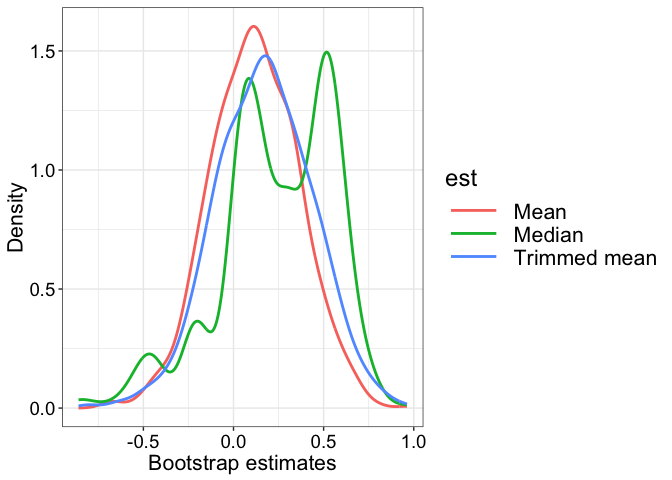
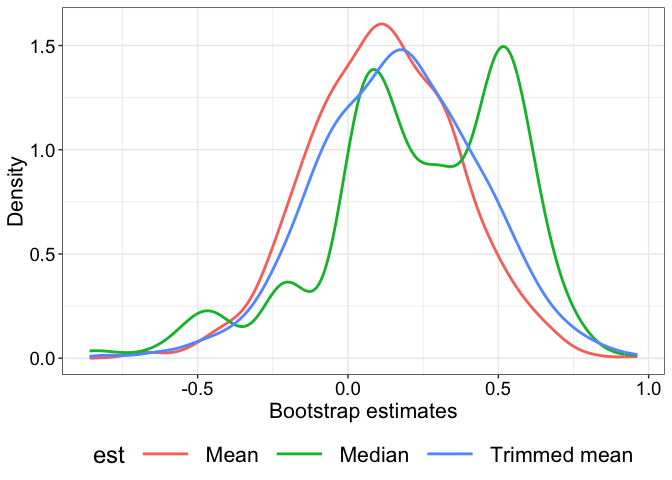
update legned position

diff --git a/docs/pb.md b/docs/pb.md
@@ -62,7 +62,7 @@ boot.samp <- sample(samp, n, replace = TRUE) # sample with replacement
 boot.samp
 ```
 
-    ##  [1] 1 4 4 2 8 6 2 9 7 7
+    ##  [1] 1 8 4 2 3 6 5 6 7 2
 
 Generate 3 bootstrap samples for the article:
 
@@ -150,7 +150,8 @@ df <- tibble(res = c(boot.m, boot.tm, boot.md),
              )
 ggplot(df, aes(x = res, colour = est)) + theme_gar +
   geom_line(aes(y = ..density..), stat = "density", size = 1) +
-  labs(x = "Bootstrap estimates", y = "Density")
+  labs(x = "Bootstrap estimates", y = "Density") + 
+  theme(legend.position = "bottom")
 ```
 
 ![](pb_files/figure-markdown_github/unnamed-chunk-7-1.png)
